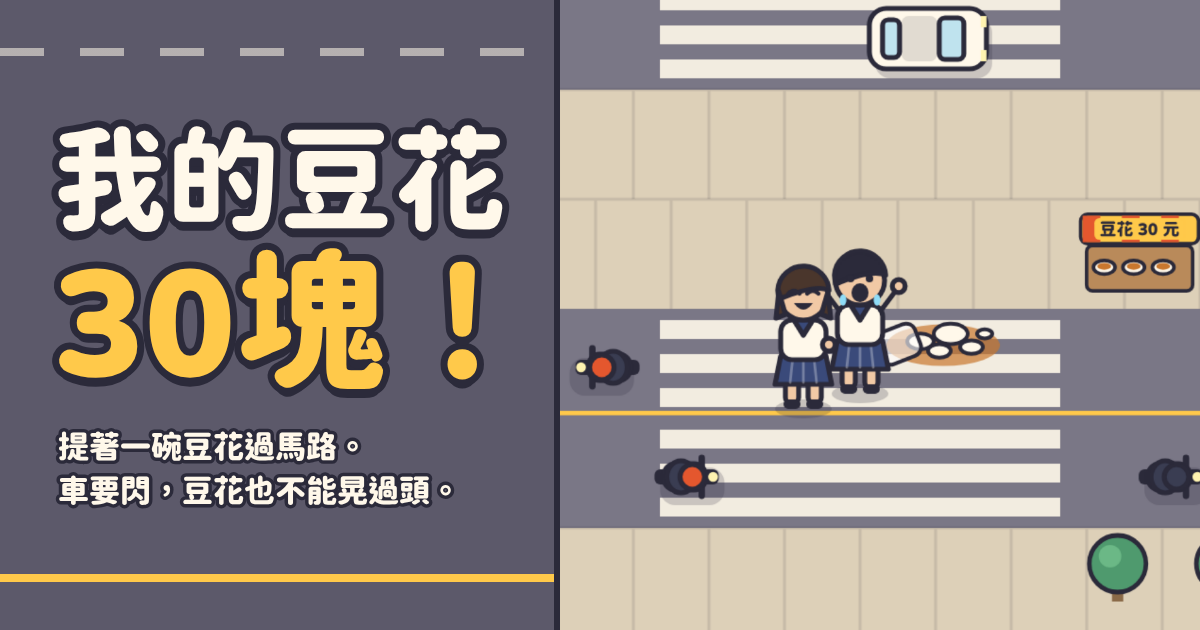
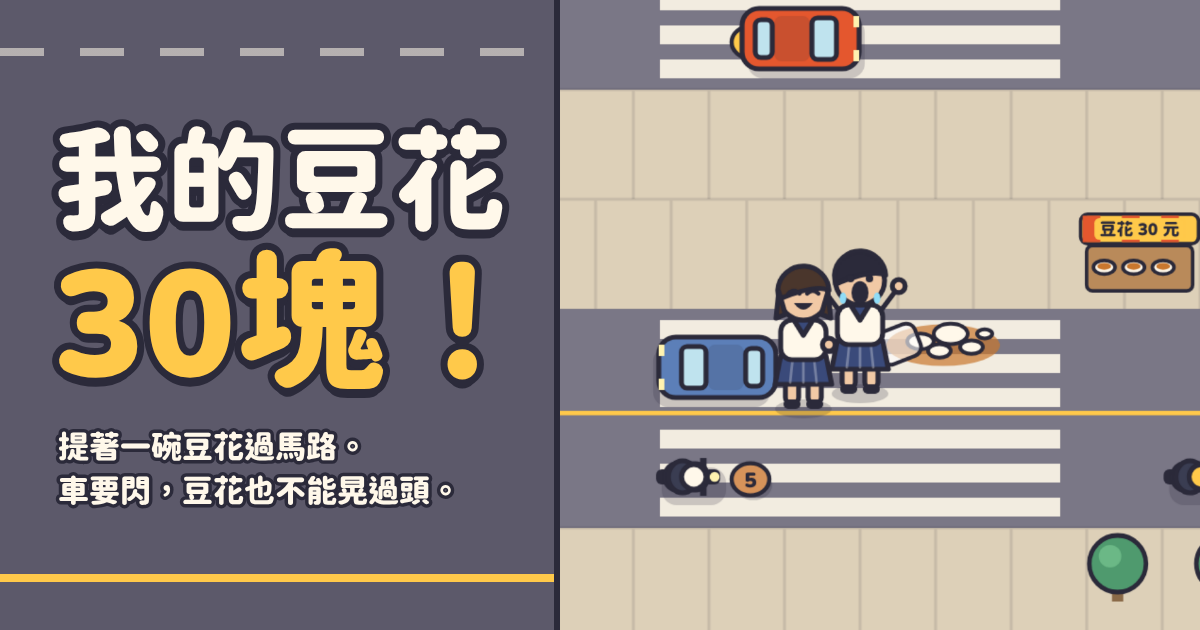
我的豆花30塊：音檔去掉尾巴的空白；人行道上不放機車
- voice.mp3 結尾改到原始檔的 6.50 秒，去掉最後沒有聲音的那一段
- 人行道上停著的機車拿掉，改放長椅（看起來像有車開上來）

Claude-Session: https://claude.ai/code/session_01KxDmhWxjQ4a2uP9nZWftUY

diff --git a/douhua/index.html b/douhua/index.html
@@ -341,10 +341,10 @@ function drawGirl(c,x,y,o){
 function drawRowBg(c,r,row,y,L,R){
   const top=y-RH/2,t=row.t;
   if(t==='walk'){c.fillStyle='#ddd0b8';c.fillRect(L,top,R-L,RH);c.strokeStyle='rgba(43,42,58,.12)';c.lineWidth=1.5;c.beginPath();for(let x=Math.floor(L/40)*40+(r%2?20:0);x<R;x+=40){c.moveTo(x,top);c.lineTo(x,top+RH);}c.moveTo(L,top);c.lineTo(R,top);c.stroke();
-    // 路邊的東西：行道樹、停著的機車、變電箱
+    // 路邊的東西：行道樹、長椅、變電箱（不放機車，免得看起來像有車開上人行道）
     for(let i=-3;i<8;i++){const x=i*74+hash(r,i)*30,k=hash(r*3+i,5);if(Math.abs(x-CX)<122||(row.goal&&x>CX+84))continue;c.strokeStyle=INK;c.lineWidth=2.4;
       if(k<.3){c.fillStyle='#8a6a48';c.fillRect(x-3,y-4,6,14);c.fillStyle='#4f9a6e';c.beginPath();c.arc(x,y-10,15,0,TAU);c.fill();c.stroke();c.fillStyle='#6bb886';c.beginPath();c.arc(x-4,y-14,6,0,TAU);c.fill();}
-      else if(k<.5)drawParked(c,x,y+2,SCOOT_COL[(r+i+60)%6]);
+      else if(k<.42){c.fillStyle='rgba(43,42,58,.16)';rrect(c,x-17,y-3,36,16,4);c.fill();c.fillStyle='#b98a5a';rrect(c,x-18,y-8,36,15,4);c.fill();c.stroke();c.lineWidth=1.6;c.beginPath();c.moveTo(x-18,y-3);c.lineTo(x+18,y-3);c.moveTo(x-18,y+2);c.lineTo(x+18,y+2);c.stroke();c.lineWidth=2.4;}   // 長椅
       else if(k<.58){c.fillStyle='#5aa67e';rrect(c,x-11,y-14,22,26,3);c.fill();c.stroke();}}
     if(row.goal)drawStall(c,CX+148,y+6,.52);}
   else if(t==='median'){c.fillStyle=ROAD;c.fillRect(L,top,R-L,RH);c.fillStyle='#c9ced6';c.fillRect(L,top+9,R-L,RH-18);c.fillStyle='#6bb886';c.fillRect(L,top+14,R-L,RH-28);
